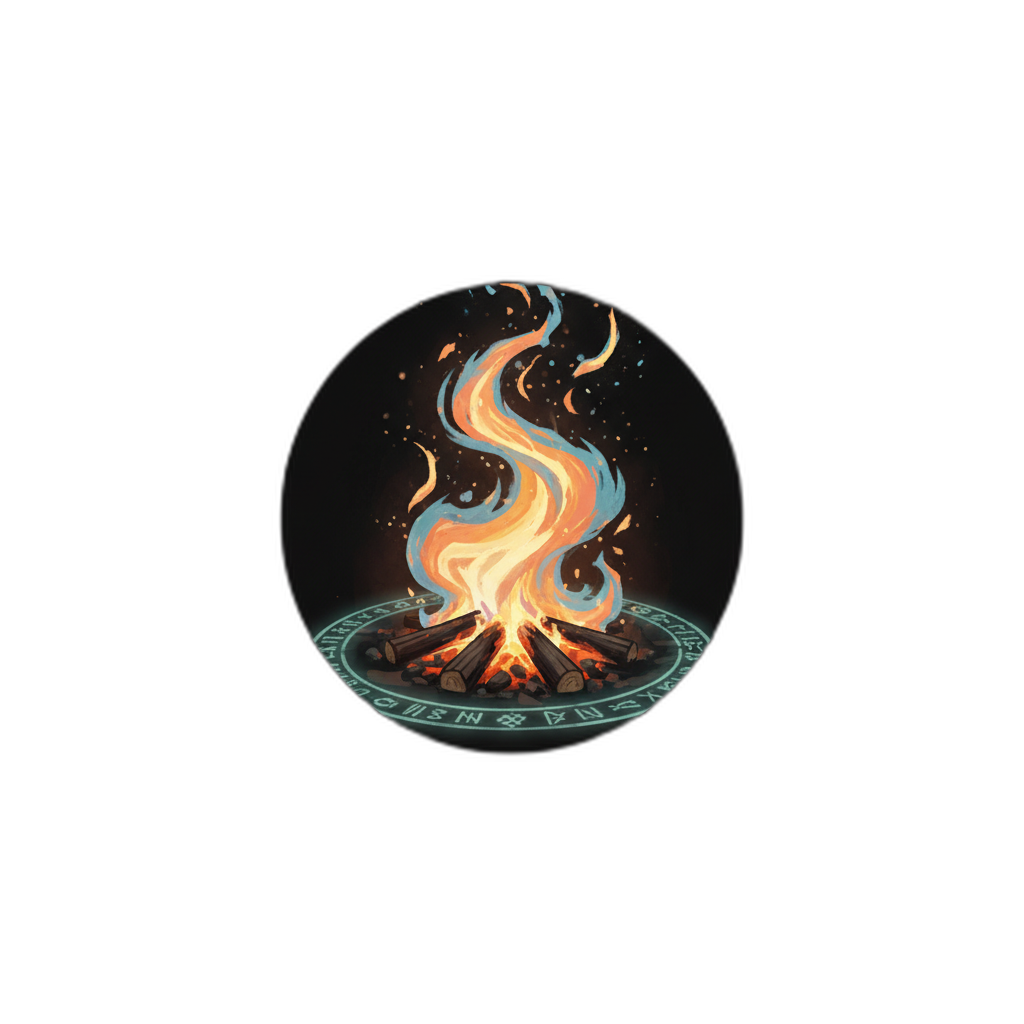
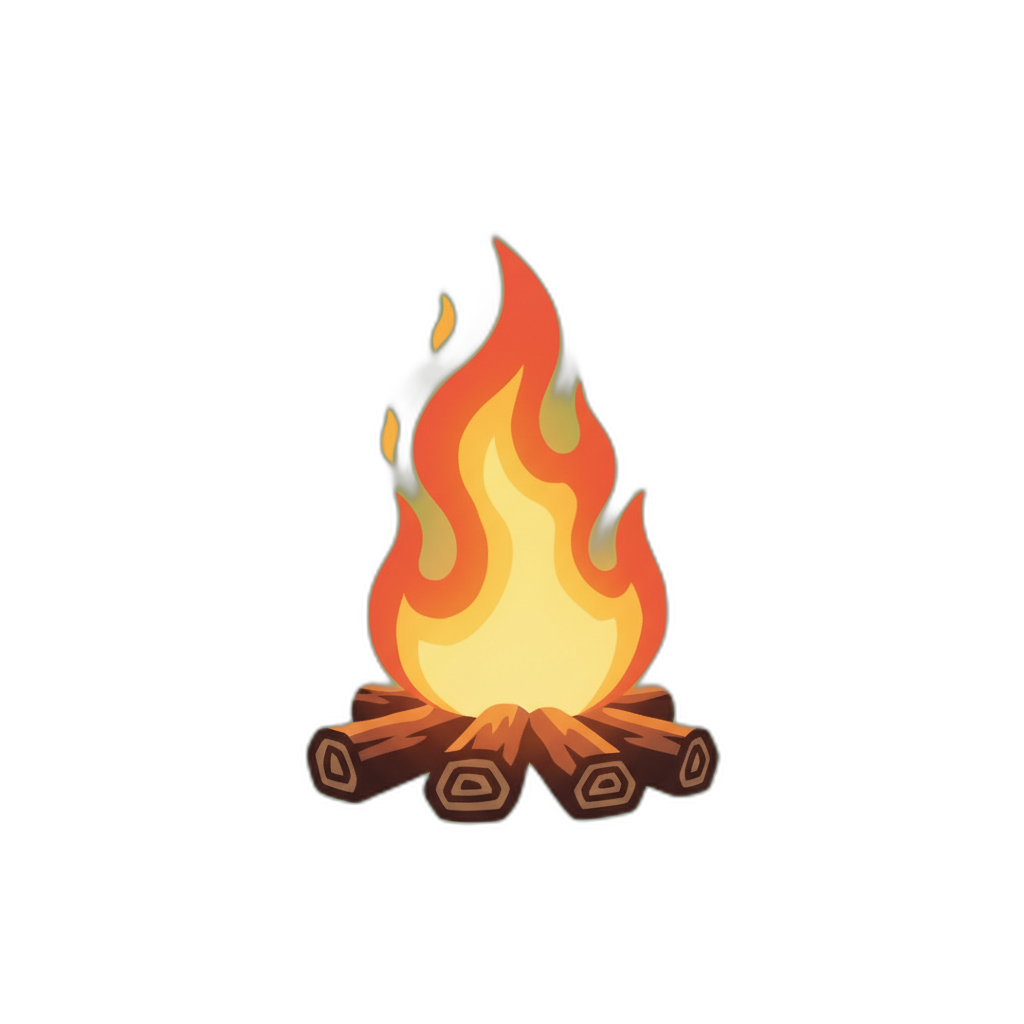
changes to asset gen / assets

Changed region(s): [[0.25, 0.2188, 0.75, 0.8125]]

diff --git a/asset-generation/generate_image.py b/asset-generation/generate_image.py
@@ -51,6 +51,12 @@ def generate_image(prompt_file, theme_file):
     asset_specific_modifiers = style_modifiers.get(asset_type, "")
     
     final_prompt = f"{base_prompt}, {style_suffix}. {global_modifiers}. {asset_specific_modifiers}."
+
+    size_hint = prompt_data.get("size_hint")
+    if size_hint == "small":
+        final_prompt += " The asset needs to be extremely clear and readable when viewed at a very small size, as an icon."
+    elif size_hint == "medium":
+        final_prompt += " The asset should have a good level of detail, suitable for a medium-sized sprite or tile."
     
     is_transparent = prompt_data.get("transparent", False)
     if is_transparent:
@@ -64,23 +70,20 @@ def generate_image(prompt_file, theme_file):
     print(f"Generating image with prompt: \"{final_prompt.strip()}\"")
     
     try:
-        response = client.generate_image(
+        response = client.models.generate_content(
             model='gemini-2.5-flash-image-preview',
-            prompt=final_prompt.strip(),
+            contents=[final_prompt.strip()],
         )
 
-        if response.images:
-            image_data = response.images[0]
-            image = Image.open(BytesIO(image_data))
-            
-            # Re-enable resizing
-            if "resize" in prompt_data:
-                resize_dims = (prompt_data["resize"]["width"], prompt_data["resize"]["height"])
-                print(f"Resizing image to {resize_dims}...")
-                image = image.resize(resize_dims, Image.Resampling.LANCZOS)
-                # Add a sharpen filter to counteract blurriness from downscaling
-                image = image.filter(ImageFilter.SHARPEN)
-            
+        image = None
+        if response.candidates and response.candidates[0].content and response.candidates[0].content.parts:
+            for part in response.candidates[0].content.parts:
+                if part.inline_data is not None:
+                    image_data = part.inline_data.data
+                    image = Image.open(BytesIO(image_data))
+                    break
+        
+        if image:
             if is_transparent:
                 image = process_background_removal(image)
 
